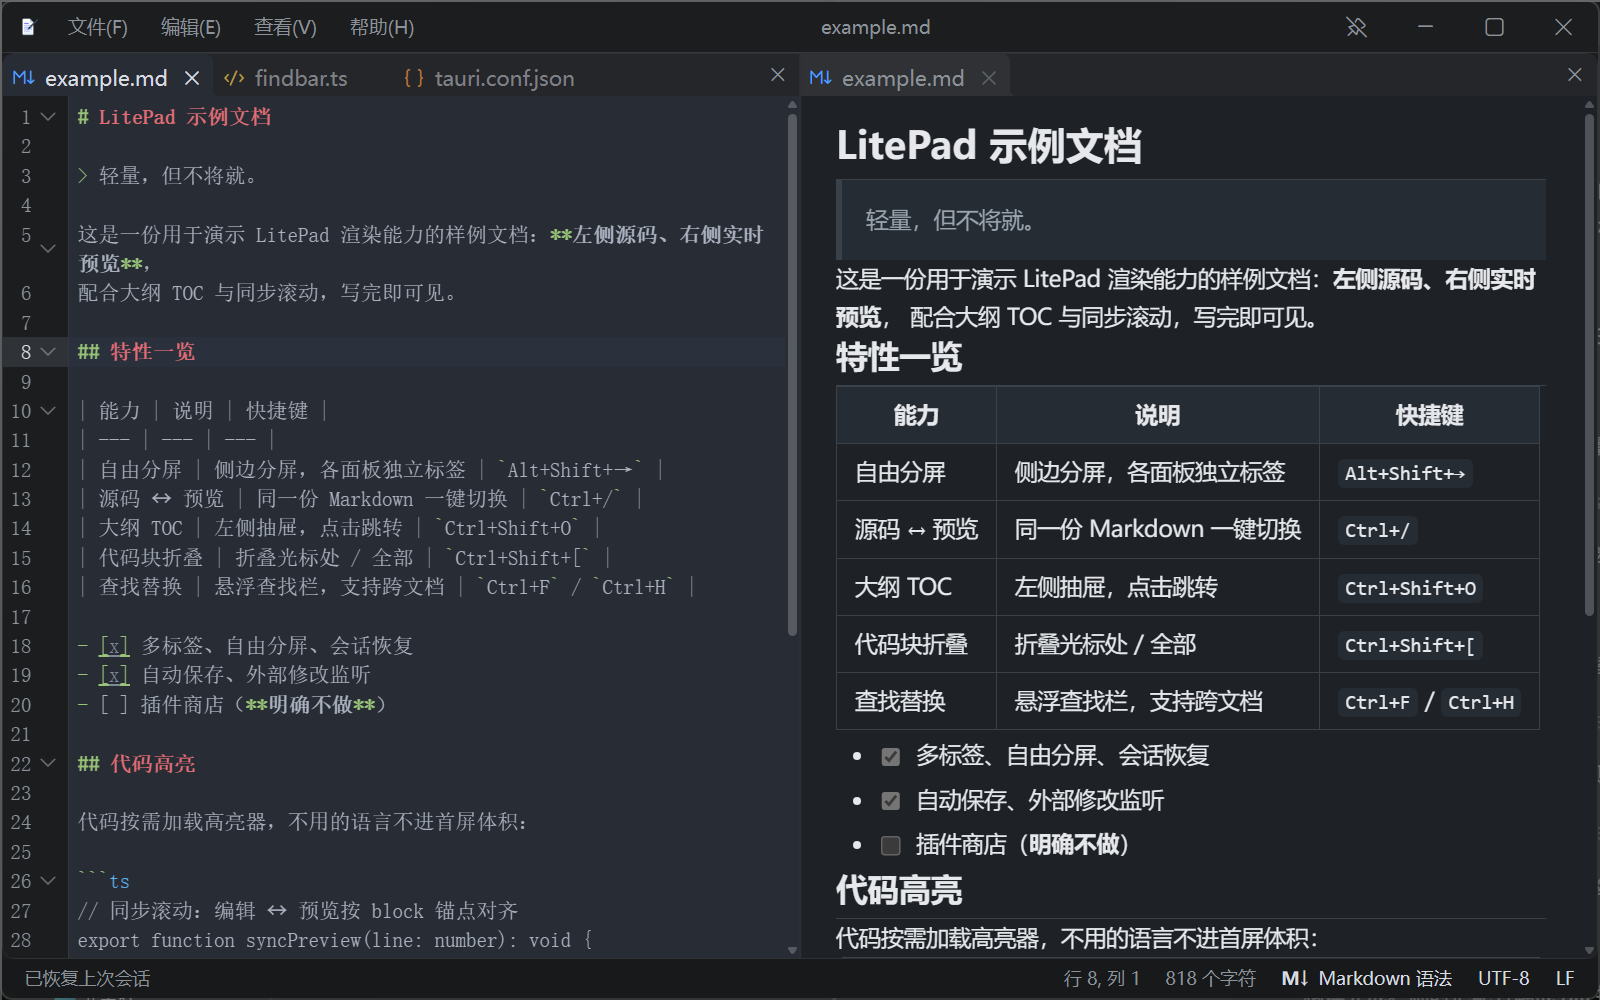
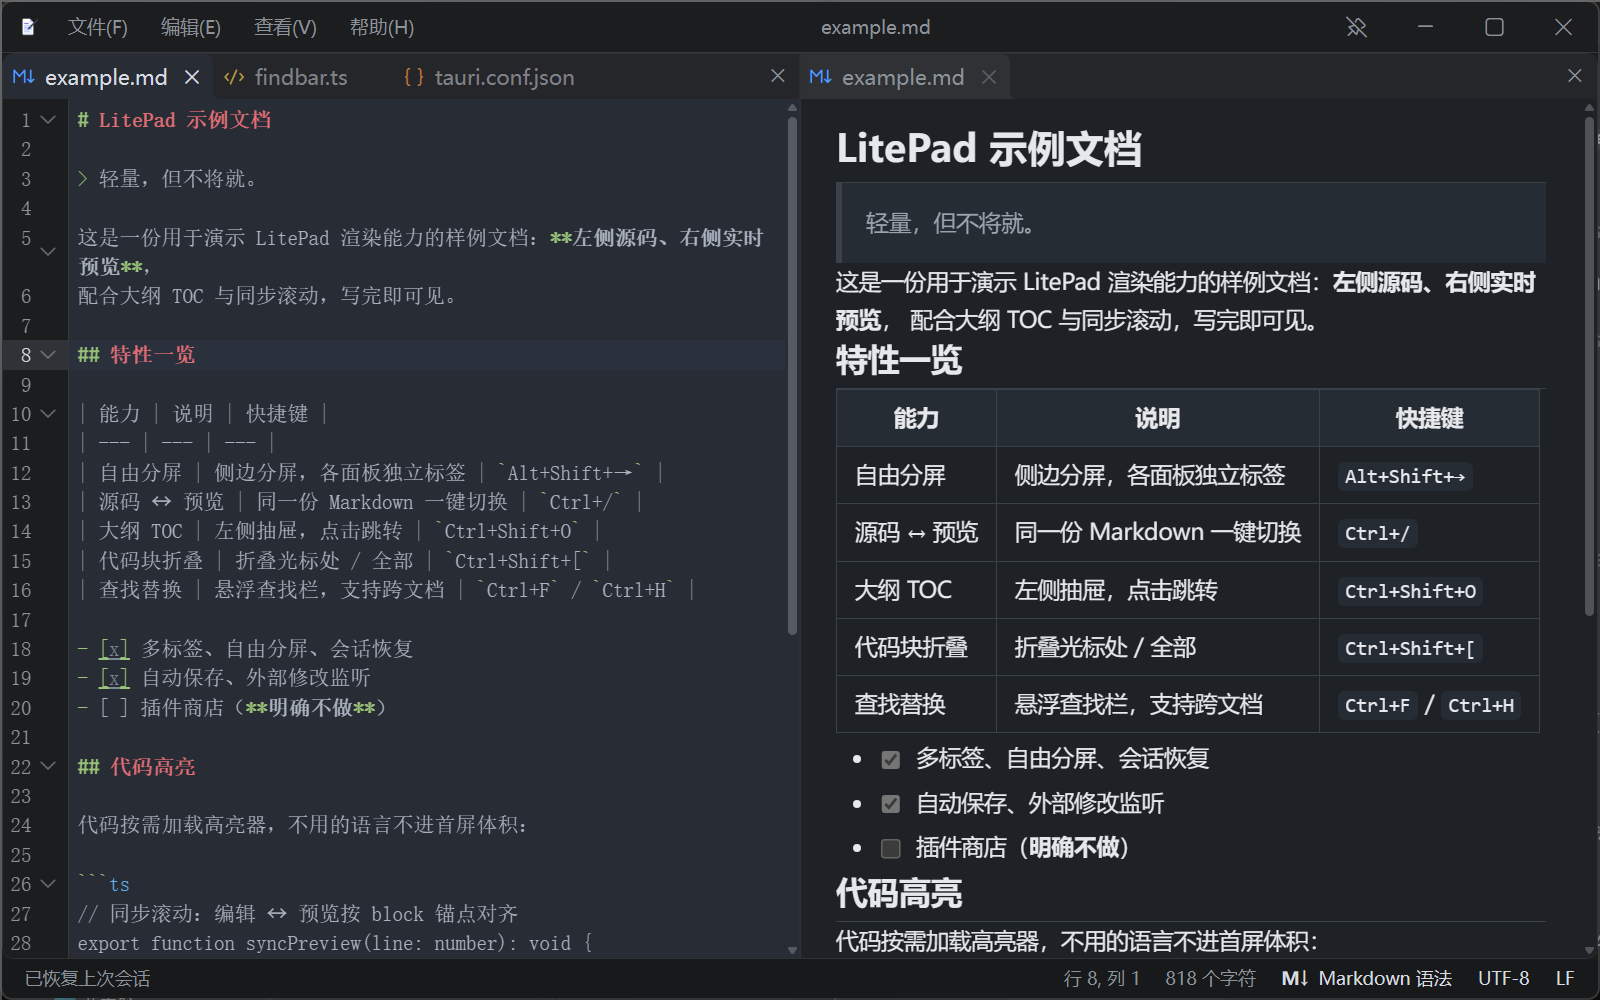
feat(ui): 两档标签条统一 30px，药丸上下间隙对称且底间隙=滚动条高（B123-6）
用户裁决：pill 与 connected 的 tab 区高度一致，减少药丸模式上下
空隙、不减小胶囊高度，底间隙最好等于滚动条高度且上下对称。

统一条带 30px = 3px 上间距 + 24px 标签/胶囊 + 3px 下间隙（=自绘
thumb 高度，正好坐进间隙）；两档切档时编辑区不再上下跳。
connected 的 fill 改 inset: -3px 0 -3px 上下延伸补齐间隙——活动
标签与编辑区融合不因下间隙断线（对齐 VS Code fill bottom: -gutter
做法），肩部锚点仍在条带底；pill 胶囊浮在 3/3 对称间隙正中，
左右 4px 呼吸位不变，不再覆盖 height。

测试：条带 30px/间隙 6px 断言、fill inset 契约更新、插入线 top
3px、pillViolations 改为留白 3/4 + 禁止覆盖 height + 插入线
bottom: 3px。77/77 绿；双档像素验收（connected fill 盖满 y54-98
融合无断线、pill 胶囊 y57-93 浮于对称间隙、编辑区两档均 y99 起）
通过，截图已刷（connected 档）。

diff --git a/tests/tabstrip.test.ts b/tests/tabstrip.test.ts
@@ -50,12 +50,13 @@ describe("标签栏静态契约（从 regressions 拆出）", () => {
     expect(tsCode, "scroll 事件驱动同步（程序滚动也覆盖）").toContain('addEventListener("scroll"');
     expect(tsCode, "thumb 必须可拖拽").toContain("bindThumbDrag");
 
-    // 条带高度：悬浮条不占布局 → 28px = 4px 上间距 + 24px 标签，无底部预留
+    // 条带高度：悬浮条不占布局 → 30px = 3px 上间距 + 24px 标签 + 3px 下间隙
+    // （B123-6 两档统一，上下对称，下间隙 = thumb 高度）
     expect(strip, "标签栏高度必须固定（无溢出↔有溢出恒定，不抖）").toMatch(/height:\s*\d+px/);
     const tabRule = css.match(/\n\.tab\s*\{[^}]*\}/)?.[0] ?? "";
     const stripH = Number(strip.match(/height:\s*(\d+)px/)![1]);
     const tabH = Number(tabRule.match(/height:\s*(\d+)px/)![1]);
-    expect(stripH - tabH, "标签栏只留顶部 4px 上间距，底部不再预留").toBe(4);
+    expect(stripH - tabH, "上下间隙共 6px（3+3 对称，B123-6）").toBe(6);
   });
   it("B56 标签不收缩：宽度跟内容走，放不下就横向滚动（文件名不裁剪成「…」）", () => {
     // 用户反馈：标签变多后标签被压窄，文件名被裁剪成「…」。
@@ -222,9 +223,10 @@ describe("Connected 相连标签（B113，对齐 VS Code 1.139）", () => {
     const fill = cssDecls(ruleBlock(css, ".tab-fill"));
     expect(fill, "应有 .tab-fill 底色层").toBeTruthy();
     expect(fill, "底色层必须绝对定位（才能向上外扩出标签行）").toContain("position: absolute");
-    // B119：底部外扩收回（-4px→0）—— B117 后标签底 = 条带底，外扩部分会被 overflow 裁掉；
-    // ⚠ 断言到分号：`-4px 0 0` 是 `-4px 0 -4px` 的前缀，不锚定分号会被旧值混过
-    expect(fill, "左右相连（connected）且底部不再外扩（B119）").toMatch(/inset:\s*-4px 0 0\s*;/);
+    // B123-6：条带 30px（3+24+3），fill 上下各伸 3px 进间隙、直达条带两沿 ——
+    // 活动标签与编辑区融合不因下间隙断线（VS Code fill bottom: -gutter 同款）；
+    // ⚠ 断言到分号，防旧值前缀混过
+    expect(fill, "左右相连且上下外扩补齐间隙（B123-6）").toMatch(/inset:\s*-3px 0 -3px\s*;/);
     expect(fill, "只有上方两角是圆的（B123-2 起走 --tab-radius 单一来源）").toMatch(
       /border-radius:\s*var\(--tab-radius\) var\(--tab-radius\) 0 0/,
     );
@@ -386,24 +388,24 @@ describe("Connected 相连标签（B113，对齐 VS Code 1.139）", () => {
     expect(strip, "条带不得再画底部细线（B122）").not.toContain("linear-gradient");
     expect(
       strip,
-      "内边距：上 4 / 右 4 / 下 0 / 左 0（B113-2：左侧不留白，下方让给编辑区）",
-    ).toMatch(/padding:\s*4px 4px 0 0/);
+      "内边距：上 3 / 右 4 / 下 0 / 左 0（B113-2：左侧不留白；B123-6 上间距 3px）",
+    ).toMatch(/padding:\s*3px 4px 0 0/);
 
-    // B55 时代「滚动条 4px 坐在下间隙里」的整套预留随 B117 悬浮化一起退场：
-    // 条带 28 = 4(上间距) + 24(标签)，底部 0 预留 —— 溢出与否高度恒定不抖。
+    // B123-6：条带统一 30px = 3(上) + 24(标签) + 3(下间隙=thumb 高度)，
+    // 两档同高切档不抖；connected 的 fill 用 inset -3px 0 -3px 伸进上下间隙。
     const tabH = Number(cssDecls(ruleBlock(css, ".tab")).match(/height:\s*(\d+)px/)![1]);
     const stripH = Number(strip.match(/height:\s*(\d+)px/)![1]);
-    expect(stripH, "条带收窄到 28px").toBe(28);
-    expect(stripH - tabH, "底部不再有滚动条预留").toBe(4);
+    expect(stripH, "条带统一 30px（B123-6）").toBe(30);
+    expect(stripH - tabH, "上下间隙共 6px（3+3 对称）").toBe(6);
     expect(css, "原生 webkit 滚动条规则必须整体删除").not.toMatch(
       /\.panel-tabstrip::-webkit-scrollbar/,
     );
 
     // 拖拽插入线必须跟着标签行走；底部间隙取消后直达条带底（B117）。
-    // ⚠ B123-5 起 pill 档有自己的 .tab-insert 覆盖块（bottom: 4px）且在文件里
-    //   更靠前 —— 锚定基础块必须带 top: 4px 特征，否则会命中 pill 块。
-    const insert = css.match(/\.tab-insert\s*\{[^}]*top:\s*4px[^}]*\}/)?.[0] ?? "";
-    expect(insert, "拖拽插入线必须与标签行等高").toMatch(/top:\s*4px/);
+    // ⚠ B123-5 起 pill 档有自己的 .tab-insert 覆盖块（bottom: 3px）且在文件里
+    //   更靠前 —— 锚定基础块必须带 top: 3px 特征，否则会命中 pill 块。
+    const insert = css.match(/\.tab-insert\s*\{[^}]*top:\s*3px[^}]*\}/)?.[0] ?? "";
+    expect(insert, "拖拽插入线必须与标签行等高").toMatch(/top:\s*3px/);
     expect(insert, "插入线必须直达条带底（无下间隙）").toMatch(/bottom:\s*0/);
   });
   it("B116 闪烁效果整体移除：CSS 无 tab-flash 规则、TS 无 flashTab（含反向验证）", () => {
@@ -492,14 +494,14 @@ describe("标签样式切换（B114：connected | pill）", () => {
       v.push("pill 必须撤掉肩部（胶囊没有舌片）");
     const strip = get(':root[data-tab-style="pill"] .panel-tabstrip');
     if (!strip.includes("gap: 4px")) v.push("pill 恢复胶囊之间的 4px 缝隙");
-    // B123-5：32px = 4px 上间距 + 24px 胶囊 + 4px 下间隙 —— 胶囊与编辑区之间
-    // 有呼吸位，自绘滚动条 thumb 坐进间隙（B55 时代几何回归）。
-    // ⚠ padding 断言到分号：connected 的 "4px 4px 0 0" 是 "4px 4px 0" 的超集，
-    //   前缀 includes 会混过去；四边 4px 必须精确匹配。
-    if (!/padding:\s*4px\s*;/.test(strip)) v.push("pill 条带四边 4px 留白（含下间隙）");
-    if (!/height:\s*32px\s*;/.test(strip)) v.push("pill 条带高 32px（4+24+4，B123-5）");
-    if (!get(':root[data-tab-style="pill"] .tab-insert').includes("bottom: 4px"))
-      v.push("pill 插入线只贯穿胶囊行（bottom: 4px）");
+    // B123-6：条带高度统一 30px（基础规则），pill 只覆盖 padding —— 上下 3px
+    // 对称（= thumb 高度），左右 4px（B55 胶囊呼吸位）。
+    // ⚠ padding 断言到分号：connected 的 "3px 4px 0 0" 是 "3px 4px" 的超集，
+    //   前缀 includes 会混过去；必须精确匹配两值形态。
+    if (!/padding:\s*3px 4px\s*;/.test(strip)) v.push("pill 条带留白上下 3px / 左右 4px");
+    if (/height:\s*\d+px/.test(strip)) v.push("pill 不得覆盖条带高度（统一 30px，B123-6）");
+    if (!get(':root[data-tab-style="pill"] .tab-insert').includes("bottom: 3px"))
+      v.push("pill 插入线只贯穿胶囊行（bottom: 3px）");
     return v;
   }
 
@@ -528,9 +530,8 @@ describe("标签样式切换（B114：connected | pill）", () => {
       "pill 活动标签必须无边框（B55：只靠底色区分）",
       "pill 必须撤掉肩部（胶囊没有舌片）",
       "pill 恢复胶囊之间的 4px 缝隙",
-      "pill 条带四边 4px 留白（含下间隙）",
-      "pill 条带高 32px（4+24+4，B123-5）",
-      "pill 插入线只贯穿胶囊行（bottom: 4px）",
+      "pill 条带留白上下 3px / 左右 4px",
+      "pill 插入线只贯穿胶囊行（bottom: 3px）",
     ]);
   });
 

diff --git a/src/styles/global.css b/src/styles/global.css
@@ -529,15 +529,20 @@ button:focus-visible {
 
 /* 底色层（VS Code 的 `.tab > .tab-fill`）：
    `inset-inline: 0` ⇒ 相邻标签的 fill **连成一条带**，不是彼此留缝的独立药丸；
-   上方外扩 4px ⇒ 活动标签能顶到标签条的上沿。
-   B119：底边从外扩 -4px 收回为 0 —— B117 后条带 28px = 4px 上间距 + 24px 标签，
+   上方外扩 ⇒ 活动标签能顶到标签条的上沿。
+   B119：底边从外扩 -4px 收回为 0 —— 当时条带 28px = 4px 上间距 + 24px 标签，
    标签底就是条带底，再往下外扩的部分整体落在条带盒外，会被 overflow 裁掉
-   （B117 后肩部消失的根因）；B120 起侧边直线落到条带底、不再有任何肩部构造。
+   （B117 后肩部消失的根因）。
+   B123-6：条带统一 30px（3px 上 + 24px 标签 + 3px 下间隙），外扩重新成为
+   可能 —— inset: -3px 0 -3px 上下各伸进间隙、直达条带上下沿，活动标签与
+   编辑区的融合不因下间隙出现断线（对齐 VS Code connectedEditorTabs.css 的
+   fill bottom: -gutter 做法：fill 向下伸进 gutter）。肩部锚在 fill 底 =
+   条带底，位置不变。
    ⚠ 它是 positioned 元素（absolute），会盖住同层的普通流内容 —— 所以图标 /
    文件名 / ●× 槽位必须各自 `position: relative; z-index: 1`（同 VS Code 的 .tab-label）。 */
 .tab-fill {
   position: absolute;
-  inset: -4px 0 0;
+  inset: -3px 0 -3px;
   z-index: 0;
   border-radius: var(--tab-radius) var(--tab-radius) 0 0;
   background: transparent;
@@ -708,16 +713,13 @@ button:focus-visible {
 }
 :root[data-tab-style="pill"] .panel-tabstrip {
   gap: 4px;
-  /* B123-5（用户裁决）：药丸档恢复 B55 时代的 4px **下间隙** ——
-     32px = 4px 上间距 + 24px 胶囊 + 4px 下间隙，胶囊与编辑区之间有呼吸位，
-     自绘悬浮滚动条的 thumb 正好坐在间隙里（不再压在胶囊底缘上）。
-     connected 档维持 28px 不变（舌片要直通编辑区，B117 几何照旧）。 */
-  padding: 4px;
-  height: 32px;
+  /* B123-6：条带高度已统一 30px（基础规则），上下间隙 3px 对称（= thumb 高度），
+     胶囊浮在正中；左右留白 4px 不变（B55 的胶囊呼吸位）。不再覆盖 height。 */
+  padding: 3px 4px;
 }
 :root[data-tab-style="pill"] .tab-insert {
   /* 插入线只贯穿胶囊行，不吃掉下间隙 */
-  bottom: 4px;
+  bottom: 3px;
 }
 
 /* ==================================================================
@@ -2337,7 +2339,13 @@ button:focus-visible {
   /* B113-2：左侧留白归 0（对齐 VS Code connected 的 padding-left: 0）——
      第一个标签直接贴条带左缘（B113-2：左侧不留白）；
      右侧 4px 保留给滚动条与末标签的呼吸。 */
-  padding: 4px 4px 0 0;
+  /* B123-6（用户裁决）：两档条带高度**统一 30px** = 3px 上间距 + 24px 标签/
+     胶囊 + 3px 下间隙 —— 上下间隙相等，下间隙正好等于自绘滚动条 thumb 的高度
+     （thumb 完整坐在间隙里）。connected 档的 fill 由 inset: -3px 0 -3px 上下
+     延伸补齐（对齐 VS Code 的 fill bottom 伸进 gutter 的做法）：活动标签仍与
+     编辑区融合，非活动区下沿仍无线；pill 档胶囊浮在 3/3 对称的间隙里。
+     切换标签样式时编辑区不再上下跳。 */
+  padding: 3px 4px 0 0;
   /* 标签条**表面色**（VS Code 的 editorGroupHeader.tabsBackground）：比编辑器背景差一档，
      活动标签则取编辑器背景色（见 .tab-active .tab-fill）——「哪块与编辑器连着」一眼可辨。
      B122：条带下沿**不再画线**（B121 的渐变细线移除）——用户裁决「标签非活动区
@@ -2354,13 +2362,11 @@ button:focus-visible {
      改 overflow-x: hidden 后 scrollLeft 仍可编程设置：滚轮 / 自绘 thumb 拖拽 /
      ensureVisible 都走程序滚动，原生滚动条彻底退场（也就没有了 B54 那套
      scrollbar-width 复位与 ::-webkit-scrollbar 自绘规则）。
-     ⚠ 高度是硬约束：28px = 4px 上间距 + 24px 标签，**没有**底部预留 ——
-     悬浮条不占布局，溢出与否高度恒定，编辑器不会抖（B53 的预留使命终结）。
-     （B123-5：药丸档在下方覆盖块里恢复 32px 含 4px 下间隙，胶囊与编辑区
-     之间留出呼吸位，thumb 坐进间隙 —— 两档高度各自恒定，切档不抖。） */
+     ⚠ 高度是硬约束：30px = 3px 上间距 + 24px 标签 + 3px 下间隙（B123-6 两档
+     统一，上下对称），悬浮条不占布局，溢出与否高度恒定，编辑器不会抖。 */
   overflow-x: hidden;
   overflow-y: hidden;
-  height: 28px;
+  height: 30px;
 }
 
 /* B117 自绘悬浮滚动条：轨道叠在标签条底部（悬浮、不占布局、透明轨道），
@@ -2413,8 +2419,9 @@ button:focus-visible {
    绝对定位子元素会随内容一起滚 —— splitview 计算偏移时必须补上 scrollLeft。 */
 .tab-insert {
   position: absolute;
-  /* 对齐 24px 标签行：4px 上间距起、直达条带底（B117 悬浮条不占高度，无下间隙） */
-  top: 4px;
+  /* 对齐 24px 标签行：3px 上间距起、直达条带底（B123-6 统一 30px 后，
+     connected 的下间隙被 fill 补齐、视觉上仍直达；pill 档覆盖 bottom: 3px） */
+  top: 3px;
   bottom: 0;
   width: 2px;
   border-radius: 1px;
